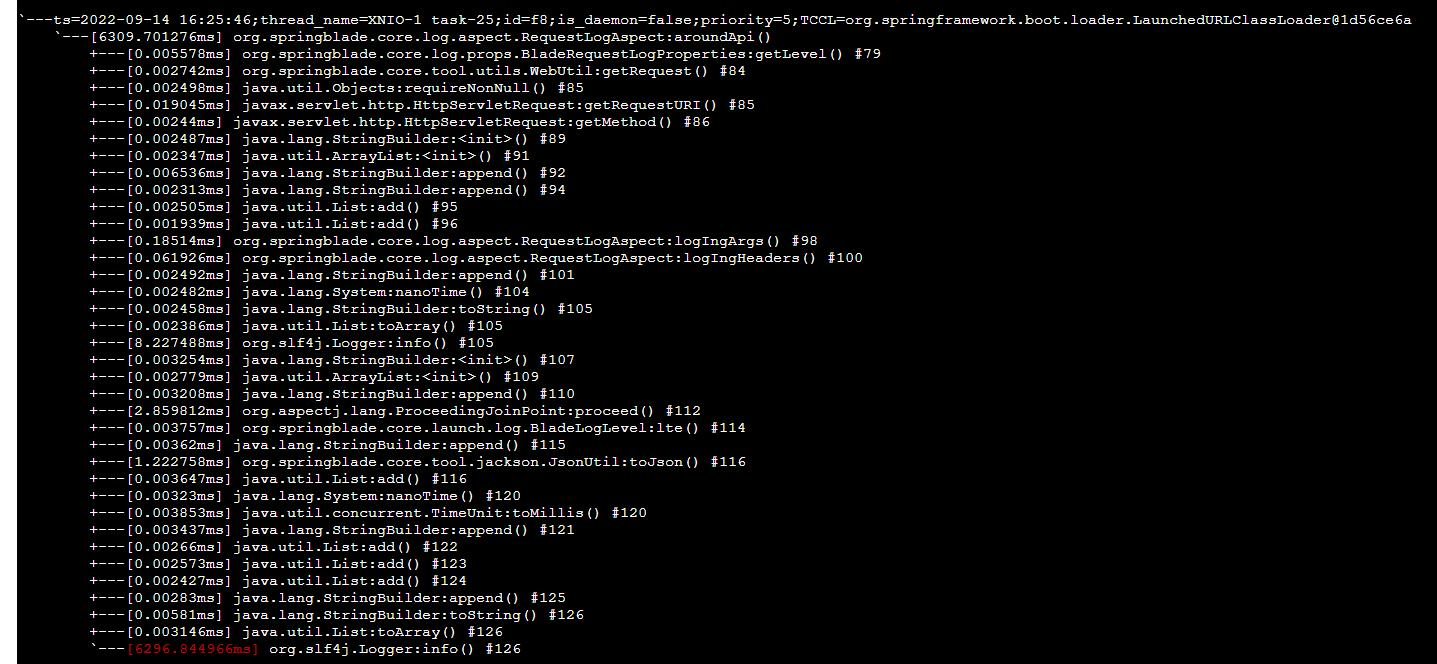
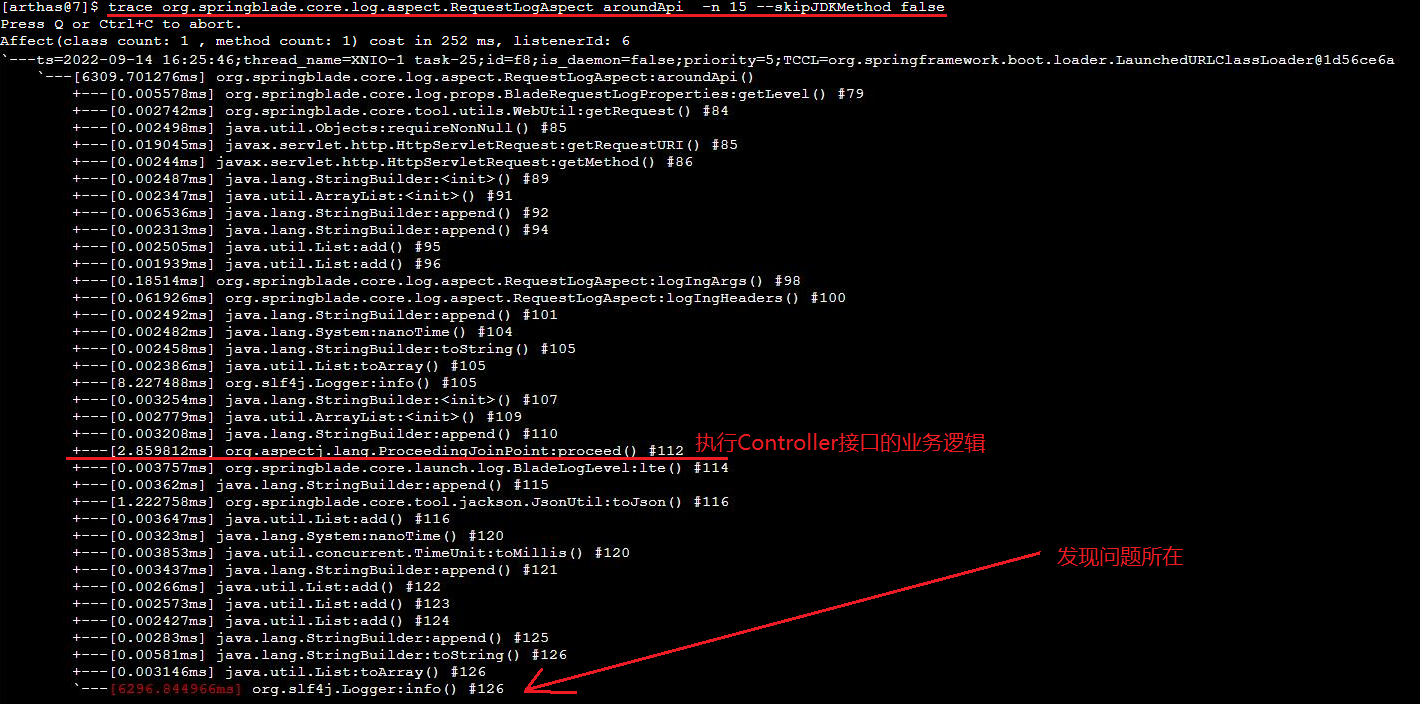
使用Arthas排查接口返回特别慢.md

diff --git a/Bug汇总/使用Arthas排查接口返回特别慢.md b/Bug汇总/使用Arthas排查接口返回特别慢.md
@@ -2,7 +2,7 @@
 
 每个APP都有用户协议，比如用户登录协议、用户注册协议。
 
-今天公司的APP送审被驳回，原因之一是因为用户协议页面响应太慢，点击之后，需要6~9秒才能看到协议内容。
+今天公司的APP送审被驳回，原因之一是因为用户协议页面响应太慢，客户点击协议链接之后，需要6~9秒才能看到协议内容。
 
 所以排查了一下。
 
@@ -28,62 +28,191 @@
 
 # 查日志
 
-查日志发现：后端服务接口日志显示几十ms
+查日志发现：后端服务接口日志显示几十ms，接口返回是非常快的，说明redis缓存起作用了。
 
 ![image-20220914174257631](images/image-20220914174257631.png)
 
+# nginx日志
 
-
-
+查看nginx的日志，发现nginx响应时间5.965秒：
 
 ![image-20220914172517838](images/image-20220914172517838.png)
 
-如果接口返回数据量比较小，则响应时间就很快：
+nginx日志中：如果接口返回数据量比较小，则响应时间就很快：
 
 ![image-20220914174021727](images/image-20220914174021727.png)
 
-
+所以猜测是nginx的原因导致的，所以找运维工程师。
 
 运维回复：
 
+![image-20220914174215873](images/image-20220914174215873.png)
 
-
-> ![image-20220914174215873](images/image-20220914174215873.png)
+> 翻看Nginx官方文档，对该变量的解释是：
 >
-> 看下对应的后端服务
-
-
-
-开发排查：
-
-> 后端服务日志显示几十ms
+> ```applescript
+> $upstream_response_time
+> 
+>    keeps time spent on receiving the response from the upstream server; 
+>    the time is kept in seconds with millisecond resolution. 
+>    Times of several responses are separated by commas and colons like addresses in the $upstream_addr variable.
+> ```
 >
-> ![image-20220914174257631](images/image-20220914174257631.png)
+> 翻译过来：`upstream_response_time`是与上游（FPM）建立连接开始到接收完内容花费的时间，单位为毫秒。
+>
+> ![image-20220914214543362](images/image-20220914214543362.png)
 
-
+从nginx层面看，此接口从请求到响应，使用了5.965秒 。
 
 运维在容器中，直接调用接口（不走nginx），发现容器中的接口返回时间确实是很长的：
 
 ![image-20220914174503839](images/image-20220914174503839.png)
 
-此时，压力就到了开发这边了。
+此时，压力就到了开发这边了：
+
+> **为什么从java日志中看到的响应时间只有几十毫秒，**
+>
+> **从nginx日志中看到响应时间有5.9秒呢 ？？？ **
 
 
 
-# 思考
+# Java中打印的日志
 
-> 为什么日志中打印此接口几十毫秒返回了，但是真正在curl调用时，响应时间却那么长呢？？
+根据java日志中的打印内容，找到打印日志的代码，发现是使用AOP记录了所有controller接口的请求参数、返回值等信息：
+
+```java
+@Around(
+		"execution(!static org.springblade.core.tool.api.R *(..)) && " +
+			"(@within(org.springframework.stereotype.Controller) || " +
+			"@within(org.springframework.web.bind.annotation.RestController))"
+	)
+	public Object aroundApi(ProceedingJoinPoint point) throws Throwable {
+		BladeLogLevel level = properties.getLevel();
+		// 不打印日志，直接返回
+		if (BladeLogLevel.NONE == level) {
+			return point.proceed();
+		}
+		HttpServletRequest request = WebUtil.getRequest();
+		String requestUrl = Objects.requireNonNull(request).getRequestURI();
+		String requestMethod = request.getMethod();
+
+		// 构建成一条长 日志，避免并发下日志错乱
+		StringBuilder beforeReqLog = new StringBuilder(300);
+		// 日志参数
+		List<Object> beforeReqArgs = new ArrayList<>();
+		beforeReqLog.append("\n\n================  Request Start  ================\n");
+		// 打印路由
+		beforeReqLog.append("===> {}: {}");
+		beforeReqArgs.add(requestMethod);
+		beforeReqArgs.add(requestUrl);
+		// 打印请求参数
+		logIngArgs(point, beforeReqLog, beforeReqArgs);
+		// 打印请求 headers
+		logIngHeaders(request, level, beforeReqLog, beforeReqArgs);
+		beforeReqLog.append("================   Request End   ================\n");
+
+		// 打印执行时间
+		long startNs = System.nanoTime();
+		log.info(beforeReqLog.toString(), beforeReqArgs.toArray());
+		// aop 执行后的日志
+		StringBuilder afterReqLog = new StringBuilder(200);
+		// 日志参数
+		List<Object> afterReqArgs = new ArrayList<>();
+		afterReqLog.append("\n\n===============  Response Start  ================\n");
+		try {
+			Object result = point.proceed();
+			// 打印返回结构体
+			if (BladeLogLevel.BODY.lte(level)) {
+				afterReqLog.append("===Result===  {}\n");
+				afterReqArgs.add(JsonUtil.toJson(result));
+			}
+			return result;
+		} finally {
+            // 【！！！！！！！！！！！！！！！ 这里计算接口处理时间 ！！！！！！！！！！！！！！！！！！！】
+			long tookMs = TimeUnit.NANOSECONDS.toMillis(System.nanoTime() - startNs);
+			afterReqLog.append("<=== {}: {} ({} ms)\n");
+			afterReqArgs.add(requestMethod);
+			afterReqArgs.add(requestUrl);
+			afterReqArgs.add(tookMs);
+			afterReqLog.append("===============   Response End   ================\n");
+			log.info(afterReqLog.toString(), afterReqArgs.toArray());
+		}
+	}
+```
+
+计算接口响应时间的位置是在finnaly代码块中，也是没有问题的。
+
+那么问题出在哪里了呢？
 
 
 
 
+# 上神器：Arthas
+
+当时想的是：接口是使用SpringBoot 的controller写的，controller的方法返回之后，还有很多处理，比如需要把返回数据转成json、把json字符串写到response输出流中等等吧。
+
+所以就想用Arthas监控一下这个接口，看看每个方法调用都花费多长时间：
 
 ![image-20220914172502139](images/image-20220914172502139.png)
 
+用Arthas抓到了两个方法调用，并且能看到每个方法执行时间，
 
+熟悉Spring AOP原理的都知道，耗时最长的这个方法，其实执行的是AOP的增强方法。
 
-![image-20220914172434014](images/image-20220914172434014.png)
-
-
+所以我找到了AOP的方法，去抓一下AOP方法完整调用及每个方法的耗时：
 
 ![image-20220914172453917](images/image-20220914172453917.png)
+
+打开这个AOP的源码：
+
+![image-20220914221353382](images/image-20220914221353382.png)
+
+
+
+问题原因找到了，解决方法也就简单了。
+
+# 解决方法
+
+从这个AOP的环绕通知注解上：
+
+```java
+@Around(
+		"execution(!static org.springblade.core.tool.api.R *(..)) && " +
+			"(@within(org.springframework.stereotype.Controller) || " +
+			"@within(org.springframework.web.bind.annotation.RestController))"
+	)
+```
+
+能知道，这个AOP拦截的是Controller接口，并且返回值为 R 类型的，
+
+那我们只需要把查询协议详情的这个接口返回值，改成`java.lang.Object`就行了。
+
+把：
+
+```java
+    @PostMapping("/detailById")
+    public R<ProtocolManageVO> detailById(int id) {
+        return R.data(xxxService.detail(id));
+    }
+```
+
+改成：（返回值改成 Object ）
+
+```java
+    @PostMapping("/detailById")
+    public Object detailById(int id) {
+        return R.data(xxxService.detail(id));
+    }
+```
+
+
+
+修改、提交、发版、验证、解决了！
+
+
+
+
+
+# 后续
+
+> 问题：为什么 log.info() 打印200kb的日志需要耗时6秒呢？
